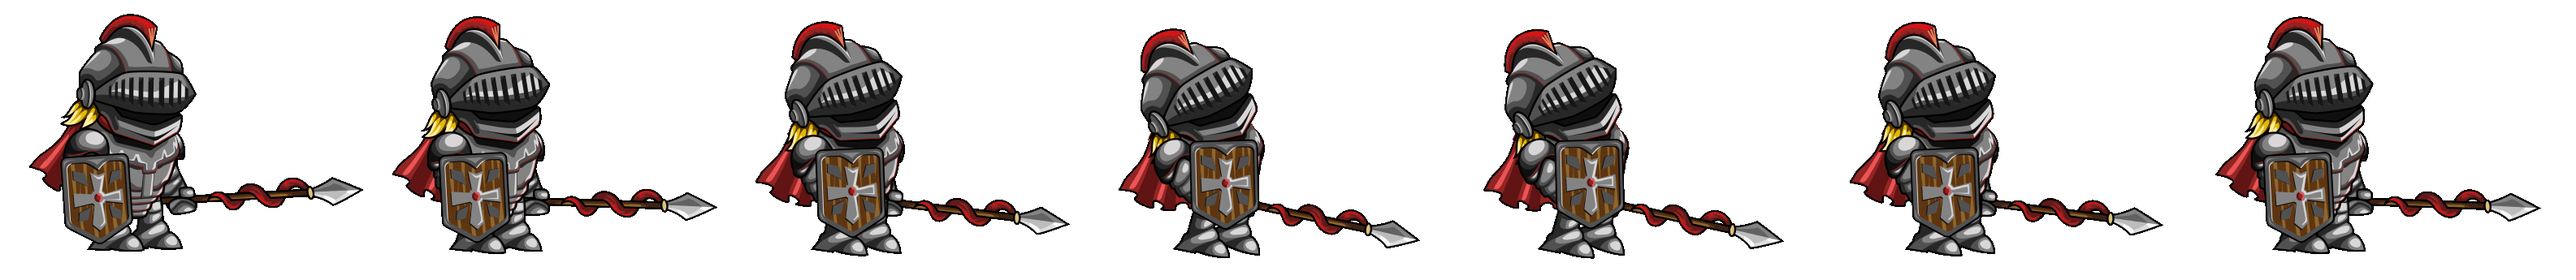
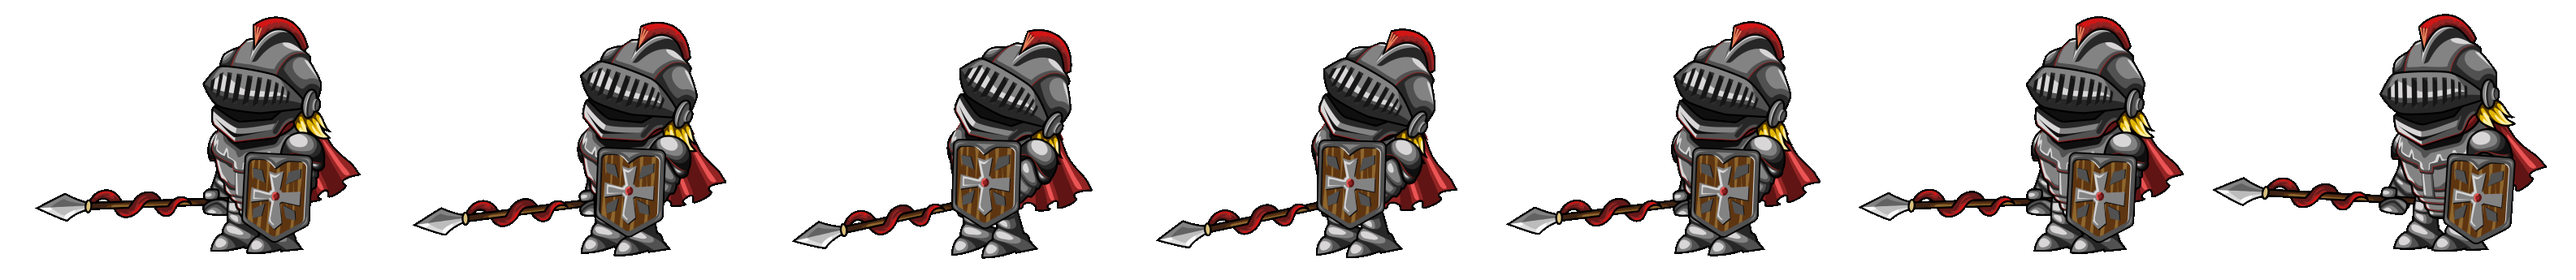
Added more Knight classes and sprites

diff --git a/main.js b/main.js
@@ -1,21 +1,18 @@
-import { KnightOne, KnightTwo } from './knight.js';
+import { KnightOne, KnightTwo, KnightThree } from './knight.js';
 import { highlightPath, drawMap, highlightCombat, getTileCoordinates } from './map.js';
-
-const bodyHeight = document.body.offsetHeight;
-const bodyWidth = document.body.offsetWidth;
 
 const button = document.querySelector('button');
 const canvas = document.querySelector('canvas');
 const gameScreen = document.querySelector('#game');
 const homeScreen = document.querySelector('#homeScreen');
-canvas.style.top = (bodyHeight - canvas.height) / 2;
-canvas.style.left = (bodyWidth - canvas.width) / 2;
+const board = document.querySelector('main');
+
+const context = canvas.getContext('2d');
 
 const menuMusic = new Audio();
 menuMusic.src = 'http://23.237.126.42/ost/fire-emblem-heroes/wkcvvcla/04%20Menu%20Normal.mp3';
 menuMusic.loop = true;
 
-const context = canvas.getContext('2d');
 let animationId;
 let gameState = true;
 let attacker;
@@ -45,7 +42,7 @@ const knight2 = new KnightTwo(
   },
   'red'
 );
-const knight3 = new KnightOne(
+const knight3 = new KnightThree(
   10,
   5,
   10,
@@ -76,15 +73,20 @@ function ellipse(context, cx, cy, rx, ry) {
 }
 
 function drawBattle() {
-  let backgroundImage = new Image();
+  console.log(defender);
+  const backgroundImage = new Image();
   backgroundImage.src = './assets/maps/desertBattle.png';
   backgroundImage.onload = () => {
     context.drawImage(backgroundImage, 0, 0, 1920, 1080, 0, 150, canvas.width, 300);
   };
-  ellipse(context, 212, 395, 50, 10);
+  ellipse(context, 162, 395, 50, 10);
   attacker.setBattleAnimation();
   attacker.sprites.attack.update();
   attacker.sprites.attack.render();
+  ellipse(context, 552, 395, 50, 10);
+  defender.setHurtAnimation();
+  defender.sprites.hurt.update();
+  defender.sprites.hurt.render();
 }
 
 function gameLoop(spriteCall) {
@@ -123,34 +125,32 @@ function stop() {
   }
 }
 
-const board = document.querySelector('main');
-
-// board.onmouseover = e => {
-//   if (e.target.className.includes('select')) return;
-//   e.target.className = 'hover';
-// };
-
-// board.onmouseout = e => {
-//   if (e.target.className.includes('select')) return;
-//   e.target.className = '';
-// };
-
-board.onclick = e => {
-  console.log(attacker);
+const controlUnits = e => {
   if (attacker) {
     if (e.target.className.includes('highlight')) {
       attacker.currentAnimation.setGoal(getTileCoordinates(e.target));
-      attacker = undefined;
     } else if (e.target.className.includes('combat-ready')) {
       gameState = false;
+      arrayGameObjects.forEach(object => {
+        if (
+          object.getCharacterCoordinates().x === getTileCoordinates(e.target).x &&
+          object.getCharacterCoordinates().y === getTileCoordinates(e.target).y
+        )
+          defender = object;
+      });
       setTimeout(() => {
         gameState = true;
         attacker = undefined;
       }, 3500);
+      [...document.querySelectorAll('[tile]')].forEach(tile => {
+        tile.className = '';
+      });
+      return;
     }
     [...document.querySelectorAll('[tile]')].forEach(tile => {
       tile.className = '';
     });
+    attacker = undefined;
   } else {
     arrayGameObjects.forEach(object => {
       if (
@@ -171,6 +171,8 @@ board.onclick = e => {
   }
 };
 
+board.onclick = controlUnits;
+
 button.onclick = () => {
   homeScreen.style.display = 'none';
   gameScreen.style.display = '';
@@ -182,4 +184,14 @@ button.onclick = () => {
 
 // document.body.onload = () => {
 //   menuMusic.play();
+// };
+
+// board.onmouseover = e => {
+//   if (e.target.className.includes('select')) return;
+//   e.target.className = 'hover';
+// };
+
+// board.onmouseout = e => {
+//   if (e.target.className.includes('select')) return;
+//   e.target.className = '';
 // };

diff --git a/knight.js b/knight.js
@@ -50,7 +50,7 @@ class KnightOne extends Character {
           numberOfFrames: 6,
           loop: true,
           ticksPerFrame: 4,
-          scale: 0.3
+          scale: 0.45
         },
         dead: {
           context,
@@ -87,7 +87,7 @@ class KnightTwo extends Character {
           numberOfFrames: 6,
           loop: true,
           ticksPerFrame: 4,
-          scale: 0.3
+          scale: 0.35
         },
         walk: {
           context,
@@ -98,7 +98,7 @@ class KnightTwo extends Character {
           numberOfFrames: 6,
           loop: true,
           ticksPerFrame: 4,
-          scale: 0.3
+          scale: 0.35
         },
         attack: {
           context,
@@ -113,14 +113,14 @@ class KnightTwo extends Character {
         },
         hurt: {
           context,
-          width: 340,
+          width: 345,
           height: 320,
           imagePath: './assets/Character/Knight/2/hurt.png',
           position,
           numberOfFrames: 6,
           loop: true,
           ticksPerFrame: 4,
-          scale: 0.3
+          scale: 0.55
         },
         dead: {
           context,
@@ -140,4 +140,74 @@ class KnightTwo extends Character {
   }
 }
 
-export { KnightOne, KnightTwo };
+class KnightThree extends Character {
+  constructor(name, health, attack, defense, context, position) {
+    super(
+      name,
+      health,
+      attack,
+      defense,
+      {
+        idle: {
+          context,
+          width: 348,
+          height: 320,
+          imagePath: './assets/Character/Knight/3/idle.png',
+          position,
+          numberOfFrames: 6,
+          loop: true,
+          ticksPerFrame: 4,
+          scale: 0.35
+        },
+        walk: {
+          context,
+          width: 371,
+          height: 320,
+          imagePath: './assets/Character/Knight/3/walk.png',
+          position,
+          numberOfFrames: 6,
+          loop: true,
+          ticksPerFrame: 4,
+          scale: 0.35
+        },
+        attack: {
+          context,
+          width: 367,
+          height: 331,
+          imagePath: './assets/Character/Knight/3/attack.png',
+          position,
+          numberOfFrames: 6,
+          loop: true,
+          ticksPerFrame: 4,
+          scale: 0.3
+        },
+        hurt: {
+          context,
+          width: 367,
+          height: 320,
+          imagePath: './assets/Character/Knight/3/hurt.png',
+          position,
+          numberOfFrames: 6,
+          loop: true,
+          ticksPerFrame: 4,
+          scale: 0.5
+        },
+        dead: {
+          context,
+          width: 381,
+          height: 320,
+          imagePath: './assets/Character/Knight/3/die.png',
+          position,
+          numberOfFrames: 6,
+          loop: true,
+          ticksPerFrame: 6,
+          scale: 0.3
+        }
+      },
+      'knightsGolden',
+      { x: 2, y: 2 }
+    );
+  }
+}
+
+export { KnightOne, KnightTwo, KnightThree };

diff --git a/sprite.js b/sprite.js
@@ -16,31 +16,34 @@ export default class Sprite {
   }
 
   render() {
-    if (!this.isFreeze) {
-      this.context.drawImage(
-        this.image,
-        this.width * this.frameIndex,
-        0,
-        this.width,
-        this.height,
-        this.position.x,
-        this.position.y,
-        Math.floor(this.width * this.scale),
-        Math.floor(this.height * this.scale)
-      );
-    } else {
-      this.context.drawImage(
-        this.image,
-        0,
-        0,
-        this.width,
-        this.height,
-        this.position.x,
-        this.position.y,
-        Math.floor(this.width * this.scale),
-        Math.floor(this.height * this.scale)
-      );
-    }
+    this.context.drawImage(
+      this.image,
+      this.width * this.frameIndex,
+      0,
+      this.width,
+      this.height,
+      this.position.x,
+      this.position.y,
+      Math.floor(this.width * this.scale),
+      Math.floor(this.height * this.scale)
+    );
+  }
+
+  renderReverse() {
+    this.context.save();
+    this.context.scale(-1, 1);
+    this.context.drawImage(
+      this.image,
+      this.width * this.frameIndex,
+      0,
+      this.width,
+      this.height,
+      this.position.x,
+      this.position.y,
+      Math.floor(this.width * this.scale),
+      Math.floor(this.height * this.scale)
+    );
+    this.context.restore();
   }
 
   update() {
@@ -53,10 +56,6 @@ export default class Sprite {
         this.frameIndex = 0;
       }
     }
-  }
-
-  freeze() {
-    this.isFreeze = true;
   }
 
   move() {

diff --git a/character.js b/character.js
@@ -32,13 +32,6 @@ export default class Character {
     };
   }
 
-  getMovementAbility() {
-    return {
-      x: Math.floor(this.currentAnimation.position.x / 120) + this.movementAbility.x,
-      y: Math.floor(this.currentAnimation.position.y / 120) + this.movementAbility.y
-    };
-  }
-
   setWalkAnimation() {
     if (
       this.getCharacterCoordinates().x !== this.getGoalCoordinates().x ||
@@ -53,9 +46,12 @@ export default class Character {
     return (this.currentAnimation = this.sprites.idle);
   }
 
-  setBattleAnimation(role) {
+  setBattleAnimation() {
     this.sprites.attack.changeScale(0.45);
-    this.sprites.attack.position = { x: 150, y: 250 };
-    this.sprites.attack.goal = { x: 100, y: 400 };
+    this.sprites.attack.position = { x: 100, y: 250 };
+  }
+
+  setHurtAnimation() {
+    this.sprites.hurt.position = { x: 420, y: 250 };
   }
 }

diff --git a/style.css b/style.css
@@ -129,4 +129,5 @@ div[tile='4,0'] {
 
 .combat-ready {
   background-color: rgba(255, 36, 0, 0.6);
+  border: 1px solid rgba(255, 36, 0, 0.8);
 }
